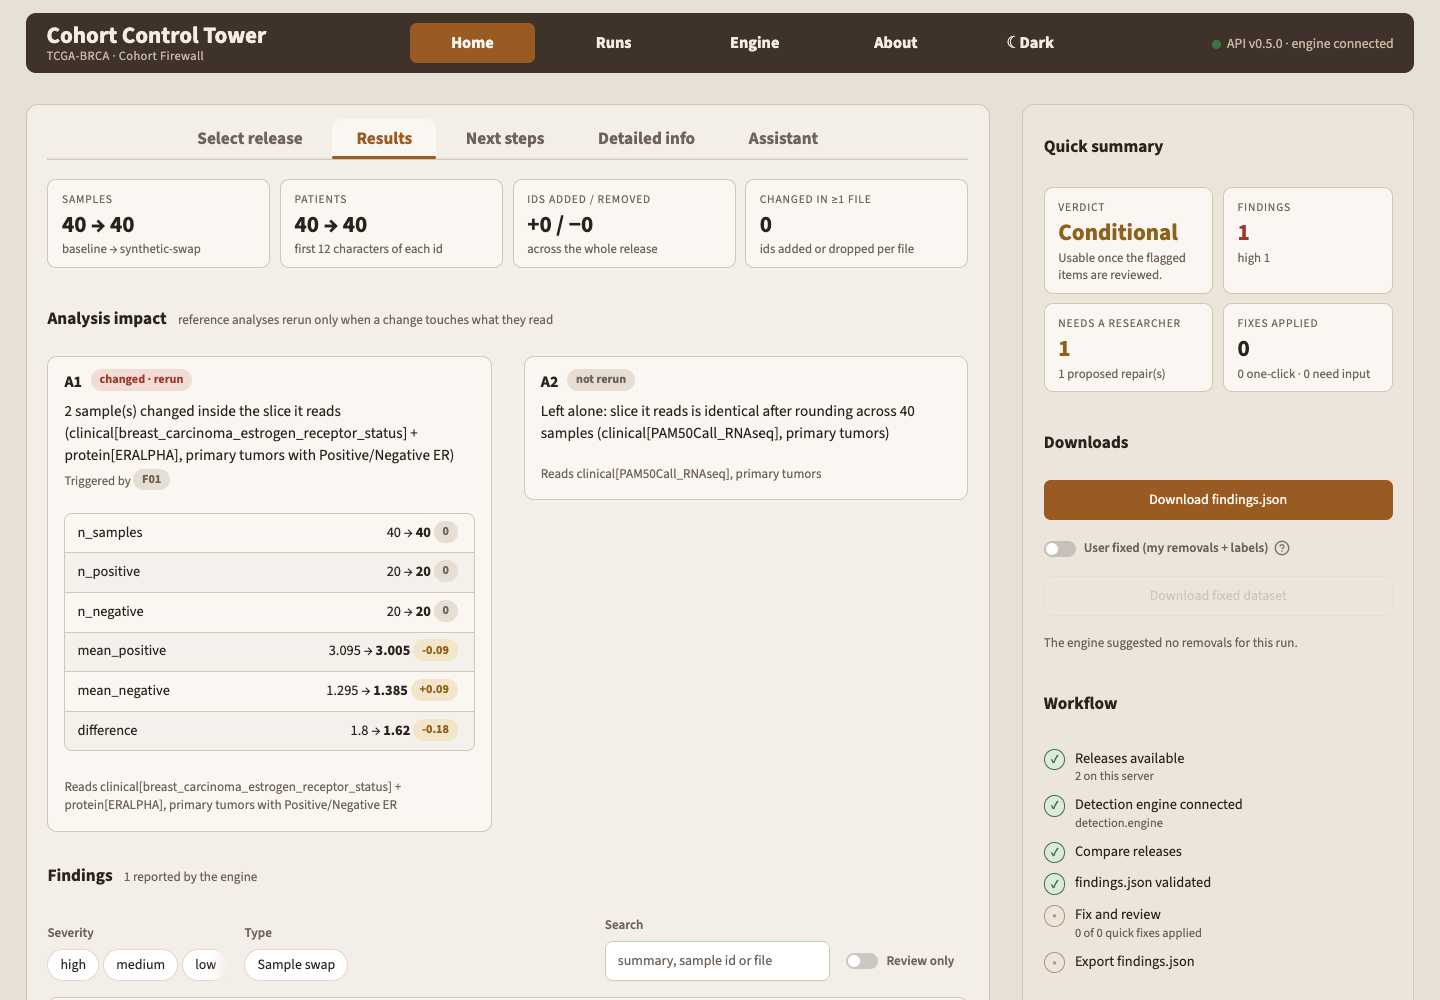
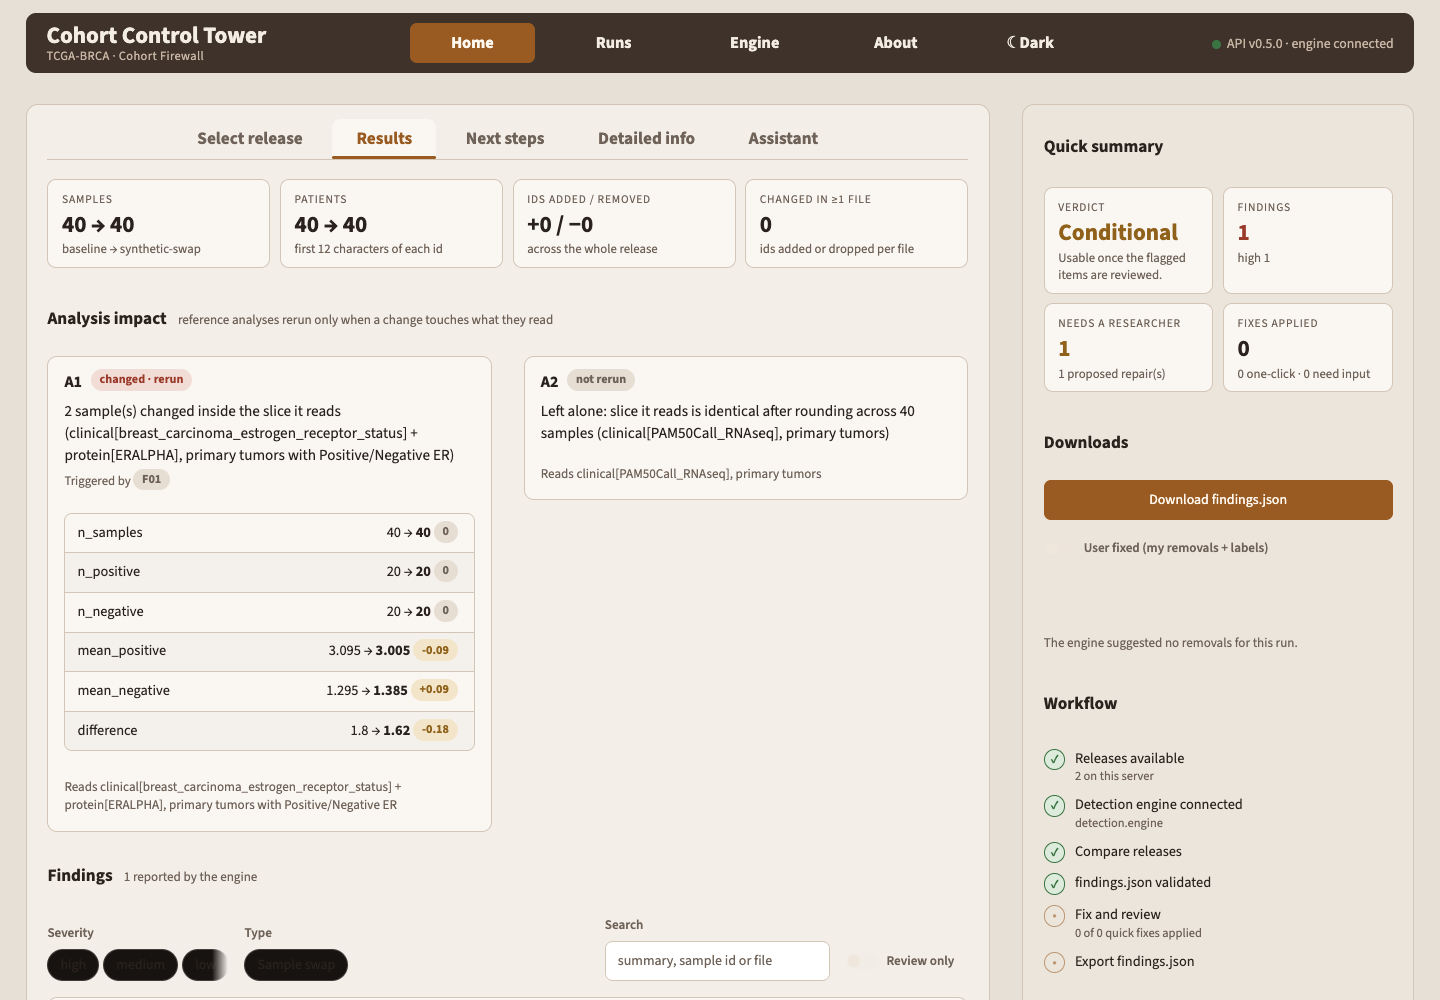
Refresh theme-faithful browser evidence and reconciliation links

Changed region(s): [[0.0312, 0.93, 0.25, 0.992], [0.5938, 0.93, 0.625, 0.992], [0.7188, 0.527, 0.75, 0.558]]

diff --git a/professor-bear/identity-crisis-control-tower/TESTS.md b/professor-bear/identity-crisis-control-tower/TESTS.md
@@ -58,3 +58,7 @@ The browser route with Request more evidence and page navigation withdrew the re
 An availability control imported all **14 check registrations**, with **zero load errors** and **zero missing required registrations across eight built-in cards**. [Runtime coverage](evidence/identity-check-coverage.json) · [runner](../review-tools/identity-check-coverage.py). Availability is not proof that every check is correct. The browser-default concern applies to a future/custom/unavailable required check, not a demonstrated omission in these built-ins.
 
 Harness corrections used the actual switch role, keyboard activation and observed navigation links; only the completed run is counted. The first AppTest attempt used an inaccessible working directory and did not reach the app; the corrected command ran in the disposable copy. Question text and fixture bytes were restored in finally blocks. A stub refuses envelope access; no sealed input exists in this test copy. The actual organizer validator and reference-analysis source were supplied. No student source changes, hosted tests, clinical validation or full accessibility audit.
+
+### Theme-faithful browser rerun
+
+On 2026-11-14T21:09:27+00:00, restored the original tracked `.streamlit/config.toml` in the disposable copy and reran the complete recorded browser workflow. Counts and behavioral findings were unchanged; the linked screenshots and browser JSON now show that rerun. This corrects the initial harness omission of the theme file, not a submission change. No style-related failure was inferred from the earlier configuration.

diff --git a/professor-bear/busy-beavers/TESTS.md b/professor-bear/busy-beavers/TESTS.md
@@ -67,3 +67,7 @@ The verified public Release A compared with itself returned Ready and zero findi
 [Exact checks and observations](evidence/browser-qa.json) · [desktop viewport](evidence/results-synthetic.png) · [review state](evidence/next-steps-synthetic.png) · [mobile viewport](evidence/mobile-synthetic.png) · [browser script](../review-tools/busy-browser-qa.py) · [synthetic server setup](../review-tools/busy-browser-server.py).
 
 No page script errors or document-level horizontal overflow were observed at 390 px. The mobile navigation occupies substantial vertical space; that remains a usability consideration. Screenshots are viewport observations, not a full responsive/accessibility audit. No hosted service or model provider was called. A first screenshot/check was refined to verify the expanded evidence panel itself; counts describe the final run, not retries. Streamlit's extracted-package development-mode heuristic required an explicit false setting in the test command; this was environment setup, not an application failure. Both temporary servers were stopped after testing.
+
+### Theme-faithful browser rerun
+
+On 2026-11-14T21:09:27+00:00, restored the original tracked `.streamlit/config.toml` in the disposable copy and reran the complete recorded browser workflow. Counts and behavioral findings were unchanged; the linked screenshots and browser JSON now show that rerun. This corrects the initial harness omission of the theme file, not a submission change. No style-related failure was inferred from the earlier configuration.

diff --git a/professor-bear/REVIEW-STATUS.md b/professor-bear/REVIEW-STATUS.md
@@ -53,3 +53,5 @@ The first companion is a source review with attributed helper probes. Later main
 ## Later Entry-Point Qualification
 
 For Identity Crisis, the earlier "development bypass is non-default" statement applies to the callable API. The [later UI-state audit](identity-crisis-control-tower/audit-codex-23484638-pass-03.md) identifies the browser's explicit permissive initialization and separately traces cache and sign-off applicability. That reviewer's pass remains source-derived. Later main-report issues 6–7 reproduce stale cohort caching and a stale approved receipt through distinct browser/AppTest paths, with positive controls and a different browser path that withdrew the receipt. The [declaration-coverage note](identity-crisis-control-tower/coverage-note-codex-23484638.md) confirms matching source declarations for all required names in eight inspected built-in cards, and the later isolated import control confirms all 14 registrations load with no errors. These qualifications preserve the earlier API control rather than treating it as a fresh-session browser test.
+
+[Identity Crisis source/runtime reconciliation](identity-crisis-control-tower/runtime-reconciliation-codex-23484638.md) consolidates the later evidence without assigning a new score or double-counting findings.

diff --git a/professor-bear/identity-crisis-control-tower/REPORT.md b/professor-bear/identity-crisis-control-tower/REPORT.md
@@ -167,3 +167,5 @@ The earlier nondefault-bypass wording describes `assess` and `run_checks`, whose
 The [UI-state follow-through](audit-codex-23484638-pass-03.md) also narrows the broad input-change sign-off claim: stored receipt digests and the live invalidation signature are separate controls. Its cache and signature concerns now have the scoped reproductions in issues 6–7; optional-summary caching remains source-derived. The [coverage qualification](coverage-note-codex-23484638.md) records declarations for every required check in all eight inspected built-in cards, and the later runtime coverage control confirms successful imports in the recorded test environment. Earlier tests and their API-level observations remain valid within their stated scope.
 
 Latest concise follow-through: [PDF](slides-codex-23484638-pass-04.pdf) · [HTML](slides-codex-23484638-pass-04.html) · [full notes](slides-codex-23484638-pass-04.md). This companion preserves its stated source-review scope; current runtime evidence is in [TESTS.md](TESTS.md).
+
+[Source/runtime reconciliation (21:04 UTC)](runtime-reconciliation-codex-23484638.md) preserves the distinction between the browser controls and the approved-review AppTest path.

diff --git a/professor-bear/README.md b/professor-bear/README.md
@@ -49,3 +49,5 @@ Latest Identity follow-through: browser defaults and same-path cache staleness a
 Focused companion decks now have direct GitHub PDF previews: [Identity UI/evidence identity](identity-crisis-control-tower/slides-codex-23484638-pass-04.pdf) and [SNS reconstruction](sns-cohort-control-tower/slides-codex-23484638-pass-04.pdf). Read them alongside the updated main reports to distinguish their original source scope from later reproductions.
 
 Latest Tripwire browser pass: 12 of 13 proposed checks met; evidence requests remain correctly exported but the interface reports zero open reviews. A failed new comparison clears old results. A separate [citation audit](review-tools/citation-audit.json) verified 221 pinned file/line references with no invalid paths or line bounds; this is not a correctness judgment.
+
+[Identity Crisis source/runtime reconciliation](identity-crisis-control-tower/runtime-reconciliation-codex-23484638.md) explains the path-dependent receipt finding and passing controls. Browser screenshots for Identity and Busy Beavers were refreshed with their original tracked theme configurations; behavioral results were unchanged.

diff --git a/professor-bear/identity-crisis-control-tower/README.md b/professor-bear/identity-crisis-control-tower/README.md
@@ -29,3 +29,5 @@ The earlier nondefault-bypass wording describes the callable API. The browser in
 The [declaration-coverage note](coverage-note-codex-23484638.md) finds matching source declarations for every required check in eight built-in cards. That bounds the missing-check concern without proving runtime availability. Preserve the strict API control and test a fresh UI session separately.
 
 Latest concise follow-through: [PDF](slides-codex-23484638-pass-04.pdf) · [HTML](slides-codex-23484638-pass-04.html) · [full notes](slides-codex-23484638-pass-04.md). This companion preserves its stated source-review scope; current runtime evidence is in [TESTS.md](TESTS.md).
+
+[Source/runtime reconciliation (21:04 UTC)](runtime-reconciliation-codex-23484638.md) preserves the distinction between the browser controls and the approved-review AppTest path.
